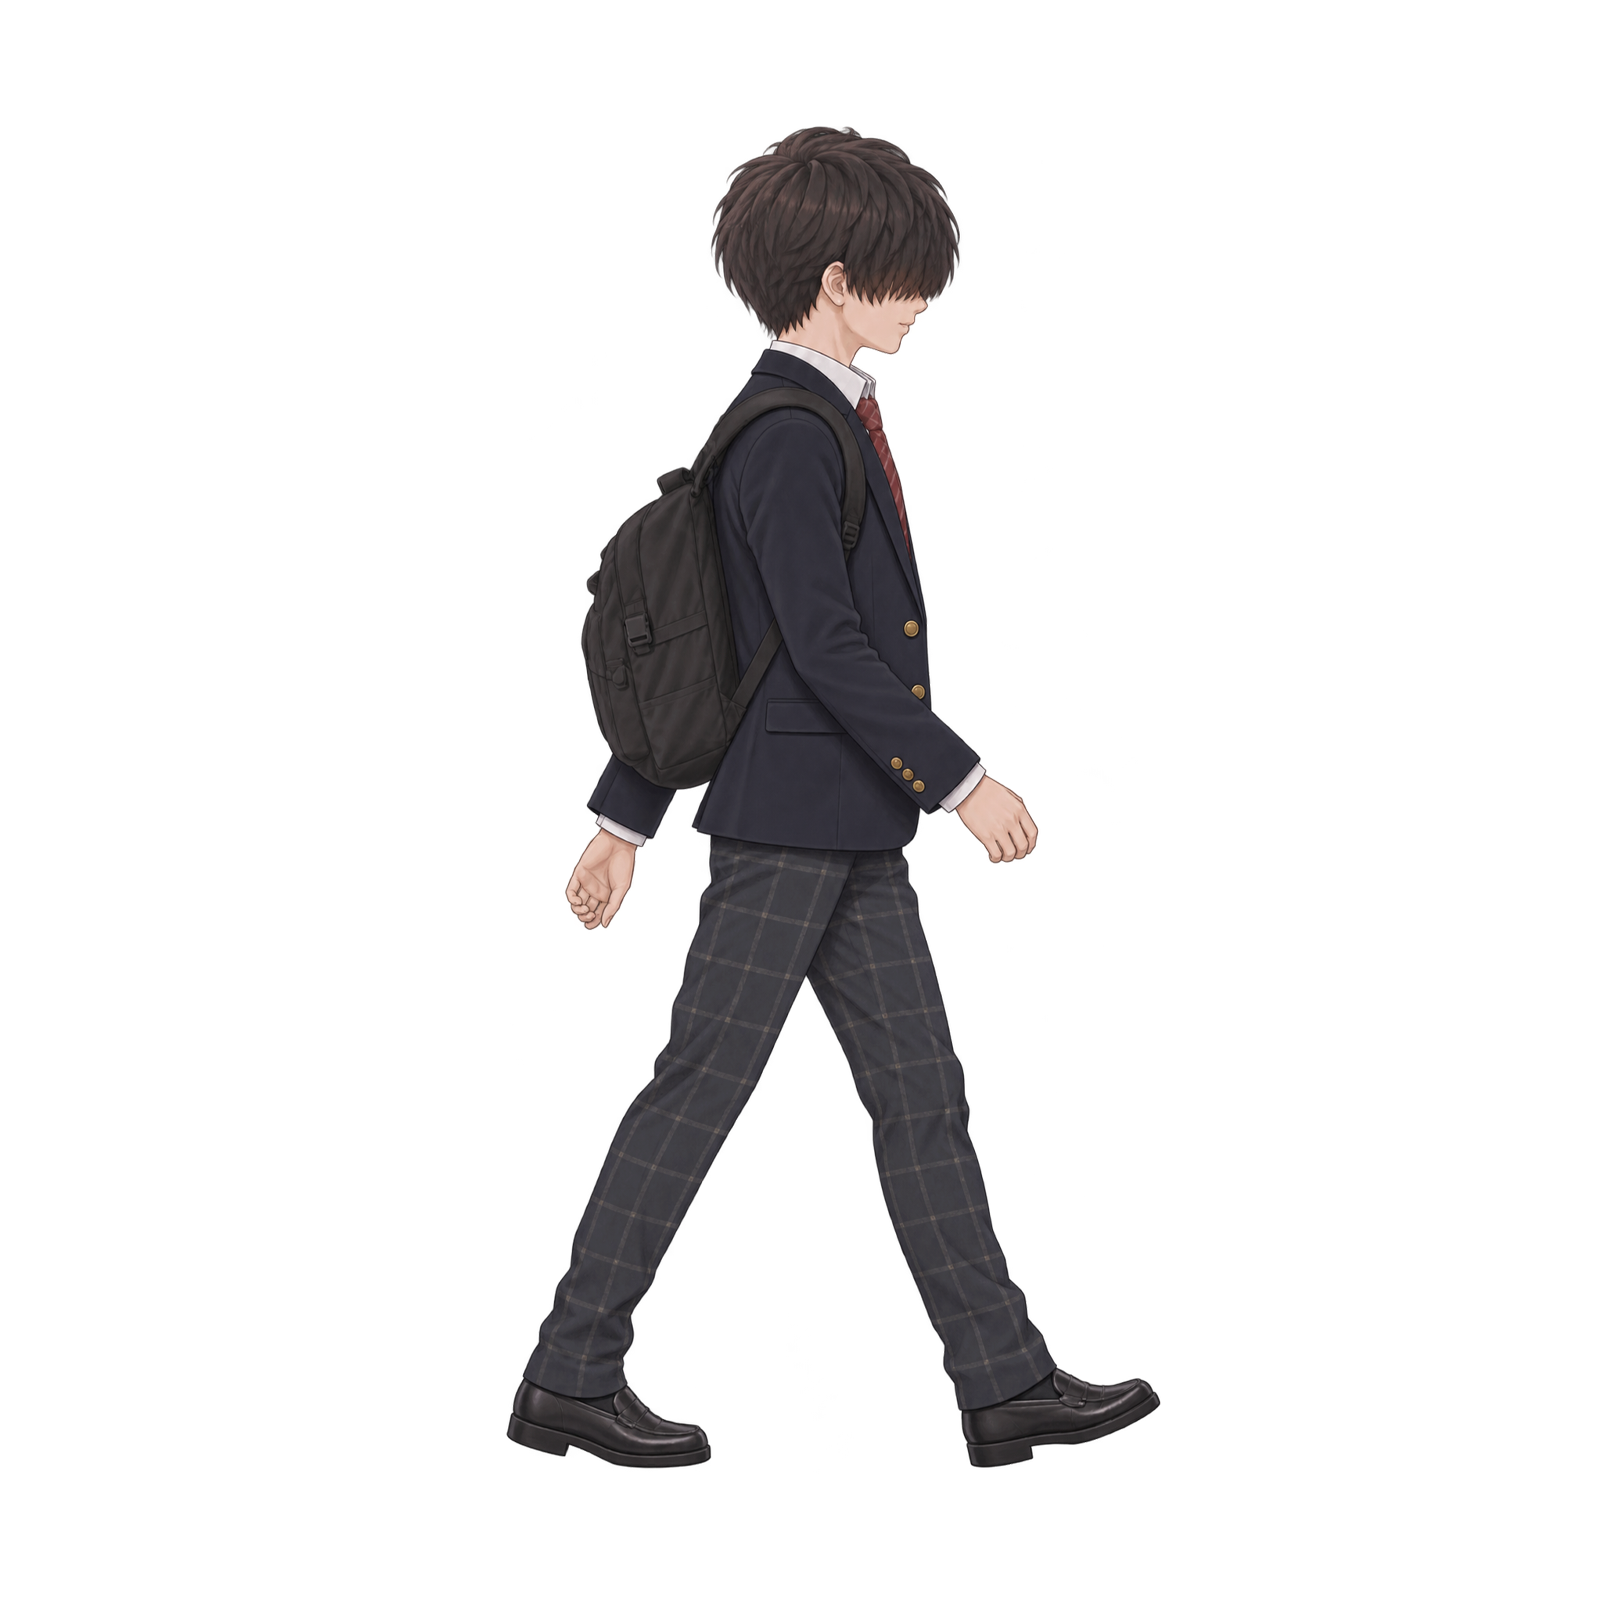
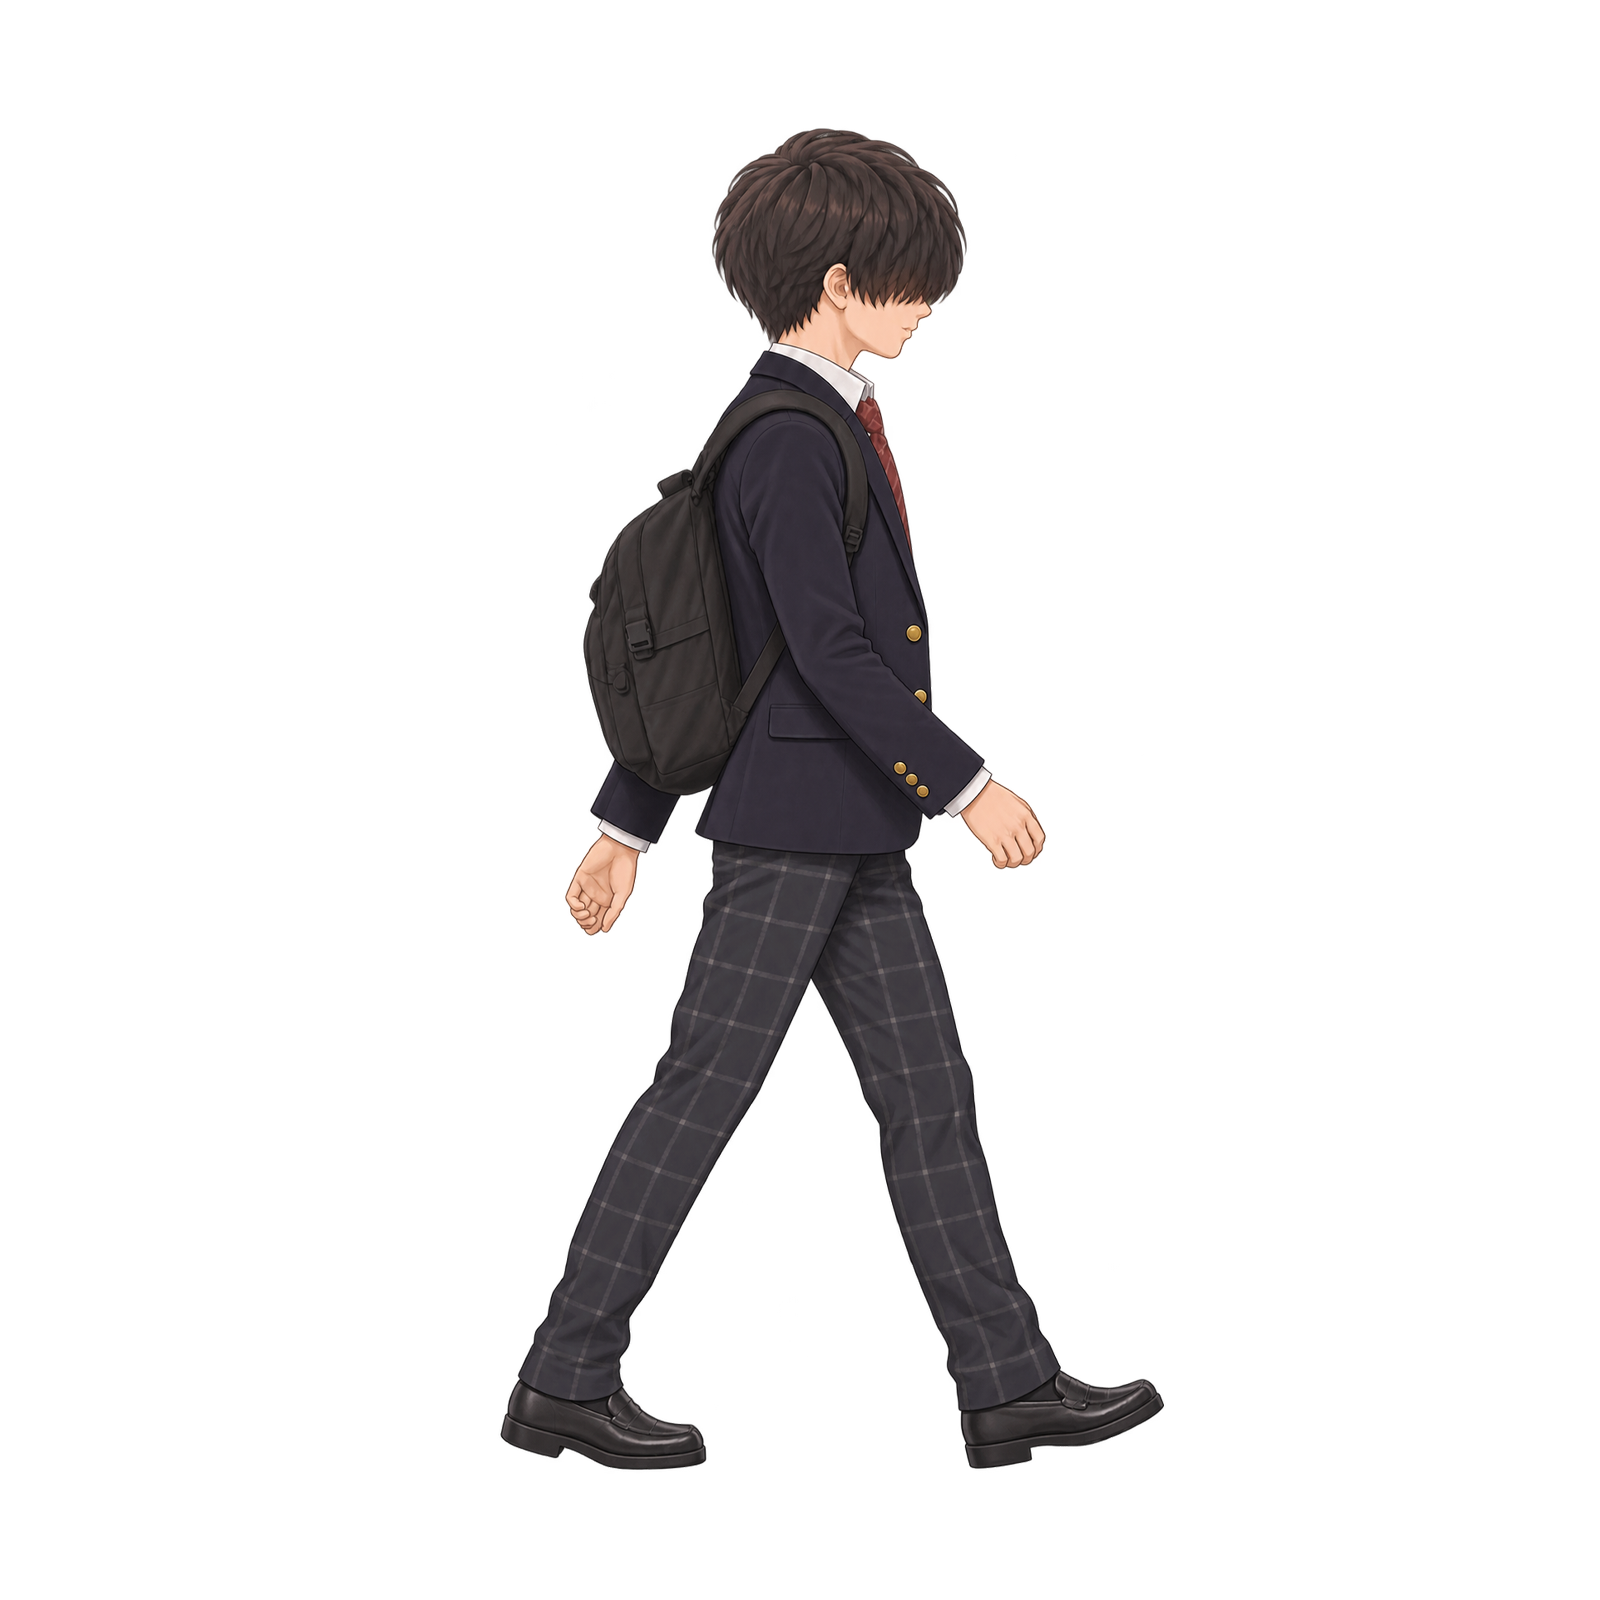
Sync updated third player walking frame

diff --git a/service-worker.js b/service-worker.js
@@ -1,7 +1,7 @@
 /* Bump CACHE_VERSION when publishing a game update. No localStorage access. */
 "use strict";
 importScripts("./assetData.js");
-const CACHE_VERSION = "v22";
+const CACHE_VERSION = "v23";
 const CACHE_PREFIX = "ichinen8-cache-";
 const CACHE_NAME = CACHE_PREFIX + CACHE_VERSION;
 const CORE = [
